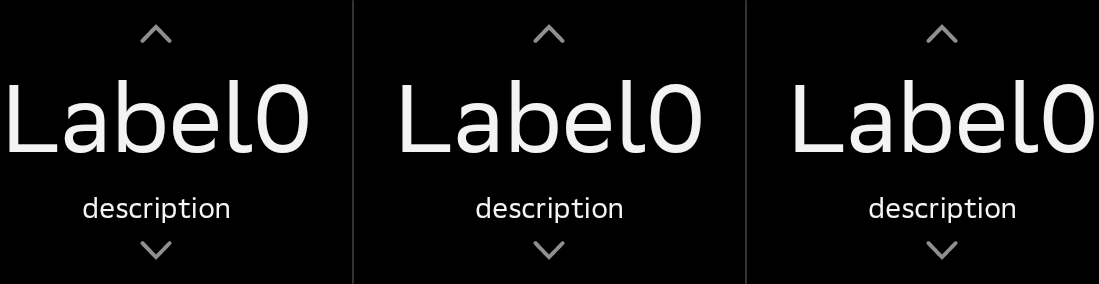
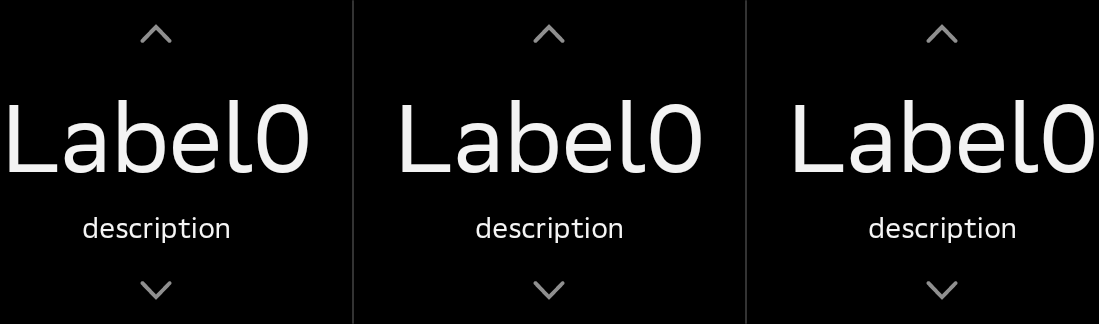
fix(sdds-alibs/plasma-star-ds): Wheel height calculation was fixed

diff --git a/sdds-core/uikit/src/main/kotlin/com/sdds/uikit/internal/wheel/WheelListView.kt b/sdds-core/uikit/src/main/kotlin/com/sdds/uikit/internal/wheel/WheelListView.kt
@@ -256,13 +256,17 @@ internal class WheelListView(context: Context) : ListView(context) {
         heightSpec: Int = MeasureSpec.UNSPECIFIED,
     ): Int {
         val child = estimateChild ?: return 0
-        if (child.measuredHeight > 0) return child.measuredHeight
+        val spacing = entryMinSpacing
+        if (child.measuredHeight > 0) {
+            return child.measuredHeight + spacing
+        }
         measureChild(child, widthSpec, heightSpec)
-        return child.measuredHeight
+        return child.measuredHeight + spacing
     }
 
     private fun estimateWheelHeight(widthSpec: Int, heightSpec: Int): Int {
-        val itemHeight = estimateChildHeight(widthSpec, heightSpec)
+        val extraSpacing = if (extraItemOffsetEnabled) extraItemOffset * 2 else 0
+        val itemHeight = estimateChildHeight(widthSpec, heightSpec) - extraSpacing
         val centerY = visibleCount * itemHeight / 2
         val maxDist = visibleCount * itemHeight / 2f
         var estimateHeight = 0f
@@ -274,7 +278,7 @@ internal class WheelListView(context: Context) : ListView(context) {
             childrenCenter += itemHeight
             distance = centerY - childrenCenter
         }
-        return estimateHeight.toInt()
+        return estimateHeight.toInt() + extraSpacing
     }
 
     override fun onScrolled(dx: Int, dy: Int) {

diff --git a/sdds-core/uikit/src/main/kotlin/com/sdds/uikit/Wheel.kt b/sdds-core/uikit/src/main/kotlin/com/sdds/uikit/Wheel.kt
@@ -490,7 +490,7 @@ open class Wheel @JvmOverloads constructor(
         if (separatorType == SEPARATOR_TYPE_DOTS && childCount > 0) {
             val anyWheelItem = getChildAt(0) as WheelItemView
             configureDotDividers {
-                it.translationY = (it.measuredHeight - anyWheelItem.itemHeight + entryMinSpacing) / 2f
+                it.translationY = (it.measuredHeight - anyWheelItem.itemHeight) / 2f + entryMinSpacing
             }
         }
     }

diff --git a/sdds-core/uikit/src/main/kotlin/com/sdds/uikit/internal/wheel/WheelItemView.kt b/sdds-core/uikit/src/main/kotlin/com/sdds/uikit/internal/wheel/WheelItemView.kt
@@ -380,7 +380,7 @@ internal class WheelItemView(context: Context) : ViewGroup(context) {
     }
 
     private fun getDescriptionPosition(): Int {
-        val centerTop = (_listView.measuredHeight - _listView.itemHeight + entryMinSpacing) / 2
+        val centerTop = (_listView.measuredHeight - _listView.itemHeight) / 2
         return _listView.top + centerTop + _listView.itemHeight - _descriptionView.measuredHeight - entryMinSpacing
     }
 }
